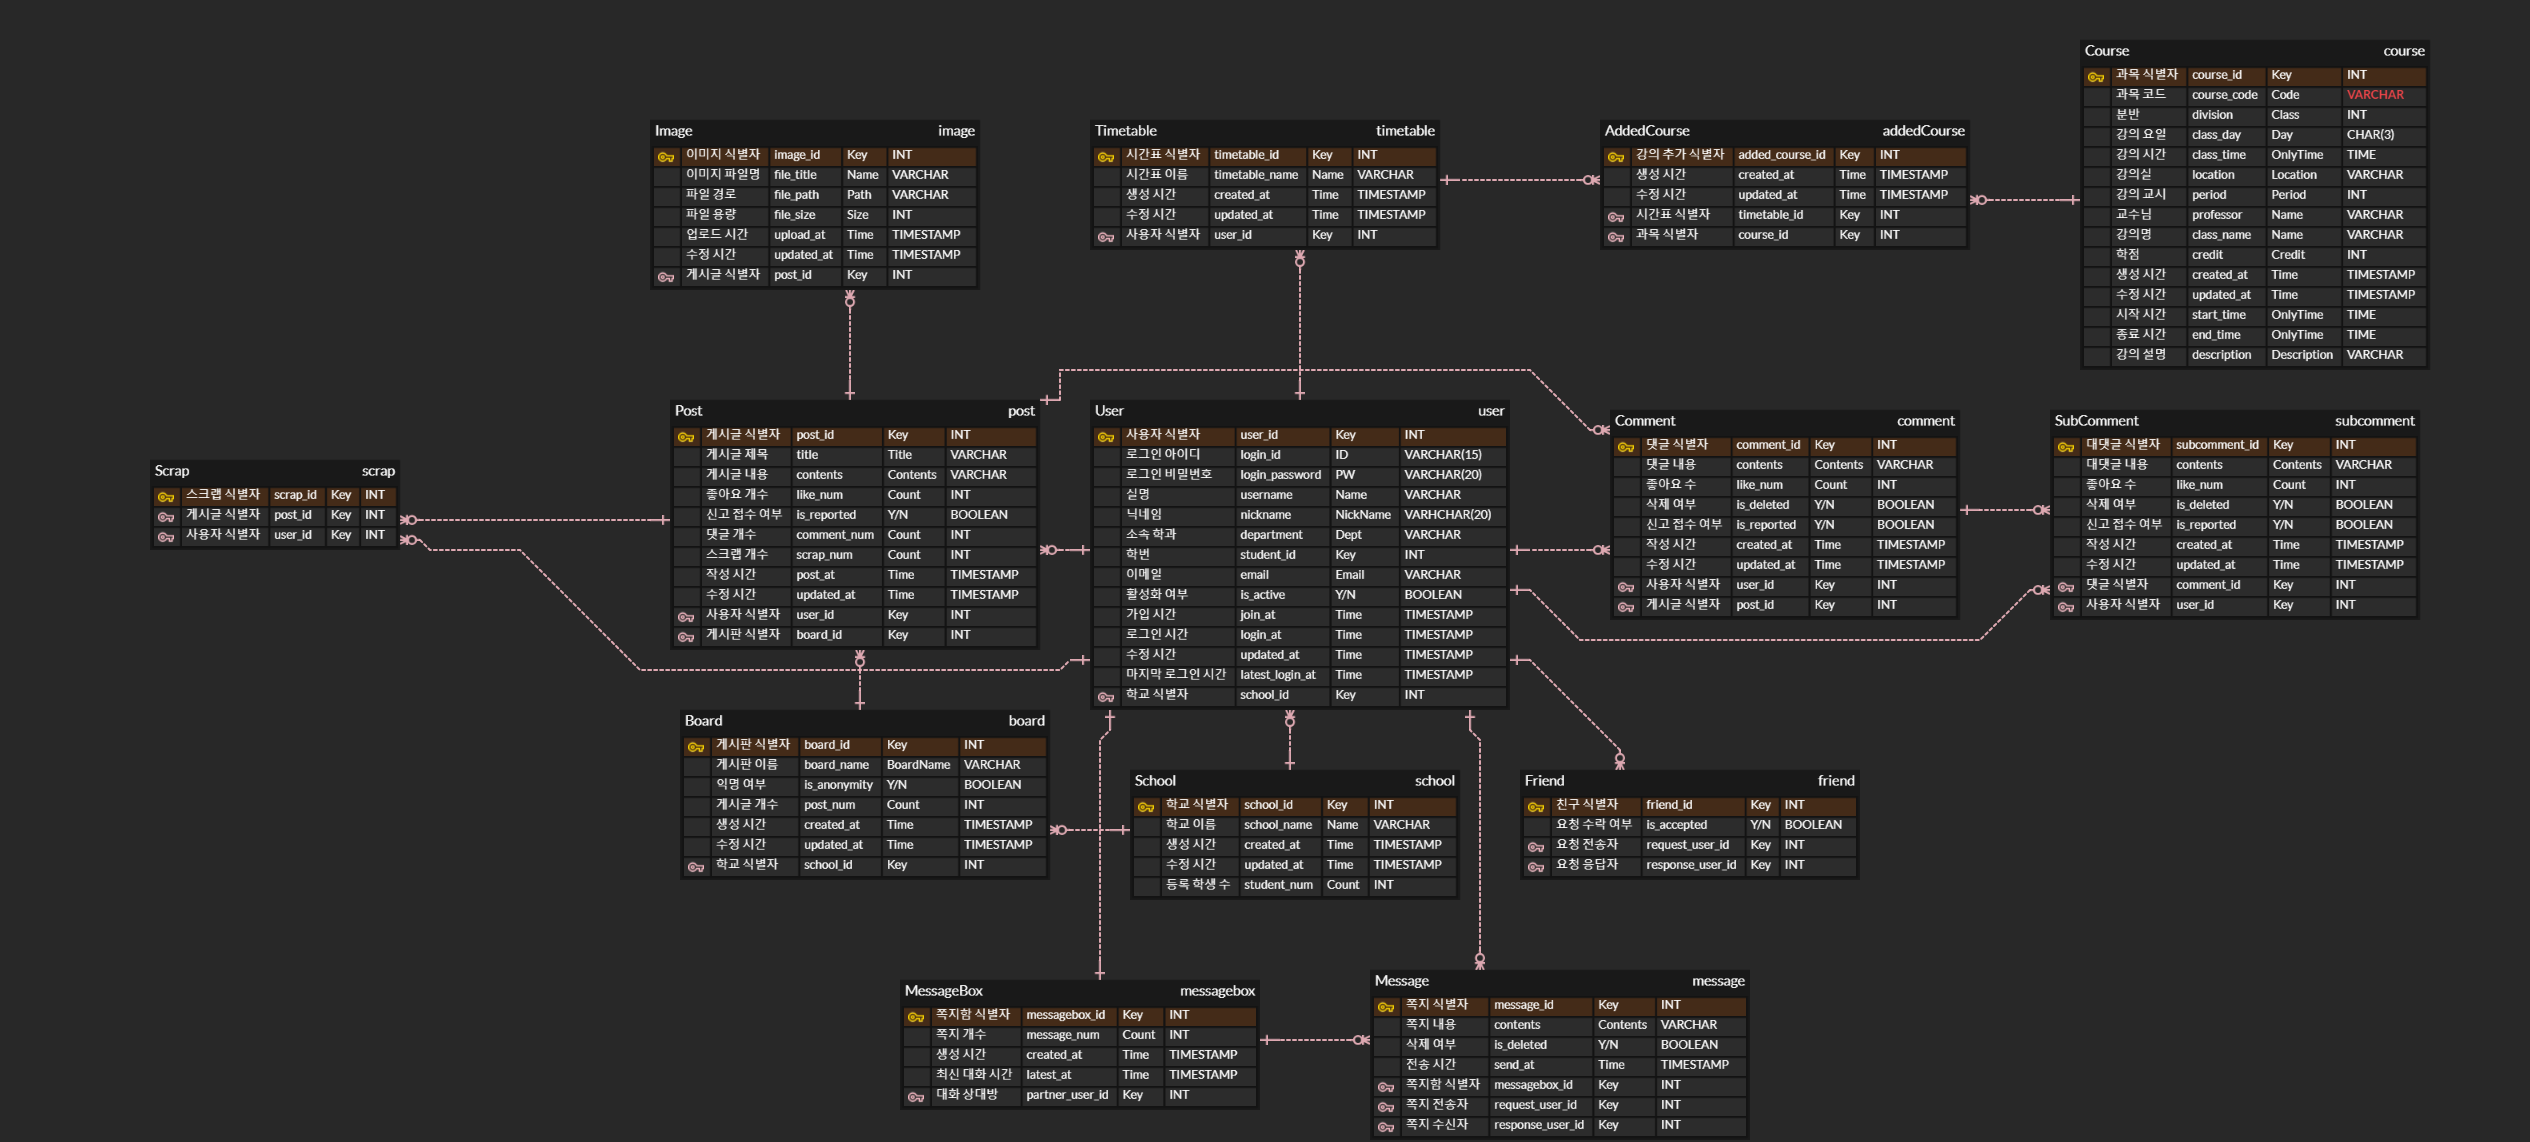
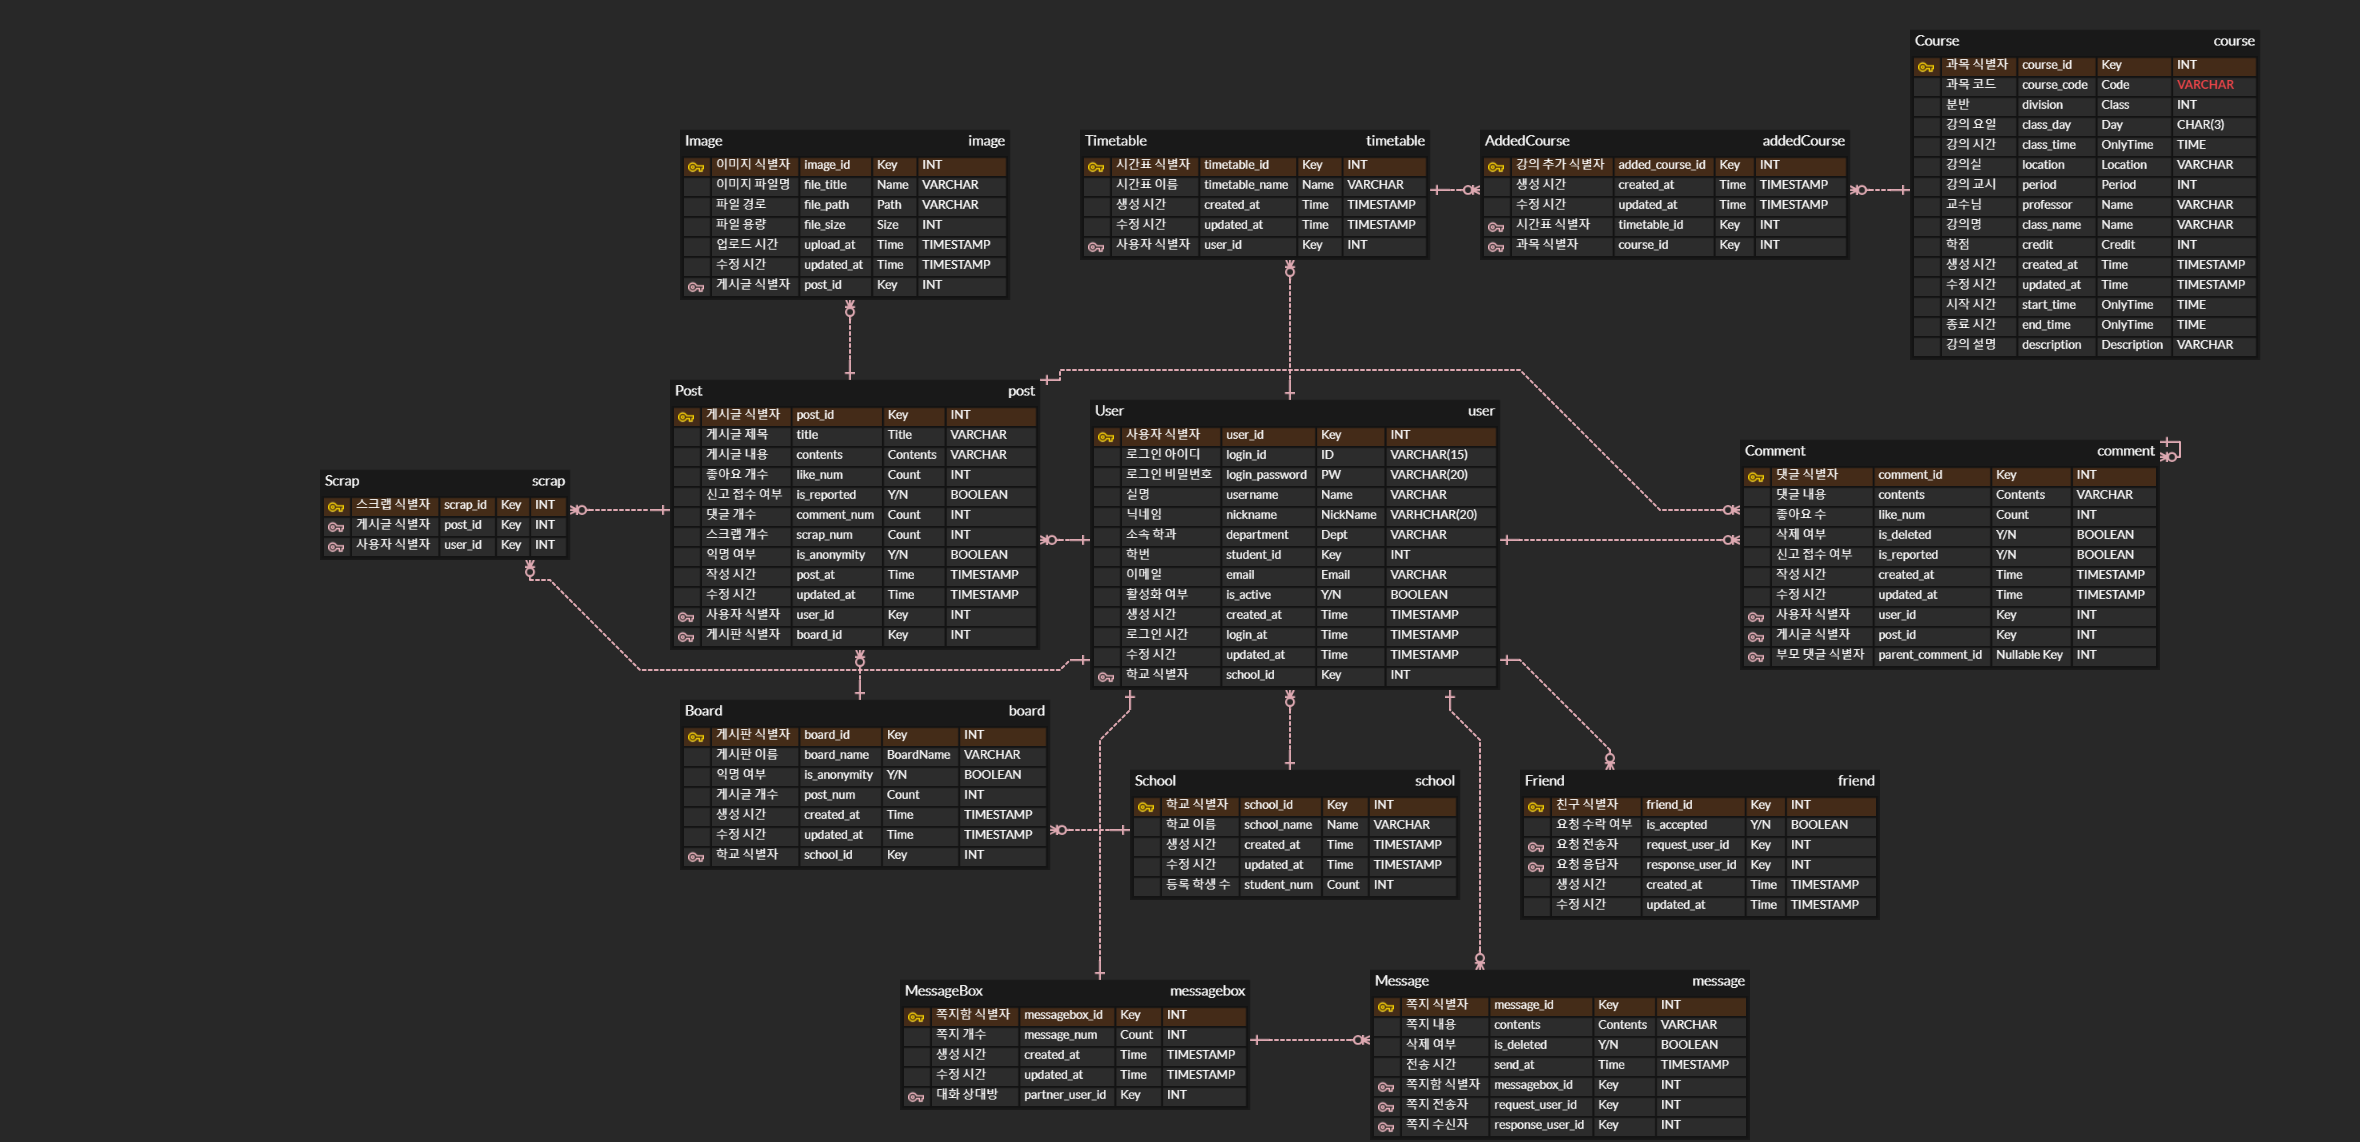
ERD image update

Changed region(s): [[0.0619, 0.3371, 0.9589, 0.7968], [0.2475, 0.0306, 0.9589, 0.3371], [0.3403, 0.8581, 0.7424, 1.0]]

diff --git a/everytime/everytime/src/main/java/com/ceos19/everytime/domain/AboutPost/Post.java b/everytime/everytime/src/main/java/com/ceos19/everytime/domain/AboutPost/Post.java
@@ -38,6 +38,9 @@ public class Post extends BaseTimeEntity {
     @Column(name="scrap_num", nullable = false)
     private Long scrapNum=0L;
 
+    @Column(name="is_anonymity", nullable = false)
+    private boolean isAnonymity=true;
+
     @ManyToOne(fetch = FetchType.LAZY)
     @JoinColumn(name="user_id")
     private User user;

diff --git a/everytime/everytime/src/main/java/com/ceos19/everytime/domain/AboutMessage/MessageBox.java b/everytime/everytime/src/main/java/com/ceos19/everytime/domain/AboutMessage/MessageBox.java
@@ -23,7 +23,7 @@ public class MessageBox extends BaseTimeEntity {
 
 
     @OneToOne(fetch = FetchType.LAZY)
-    @JoinColumn(name="user_id")
+    @JoinColumn(name="partner_user_id")
     private User user;
 
 }
